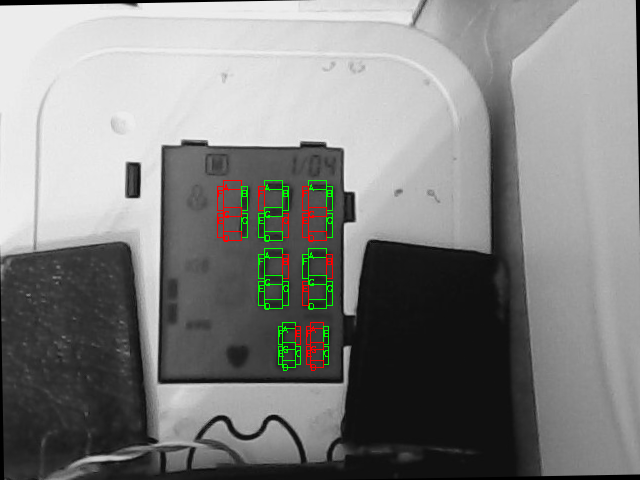
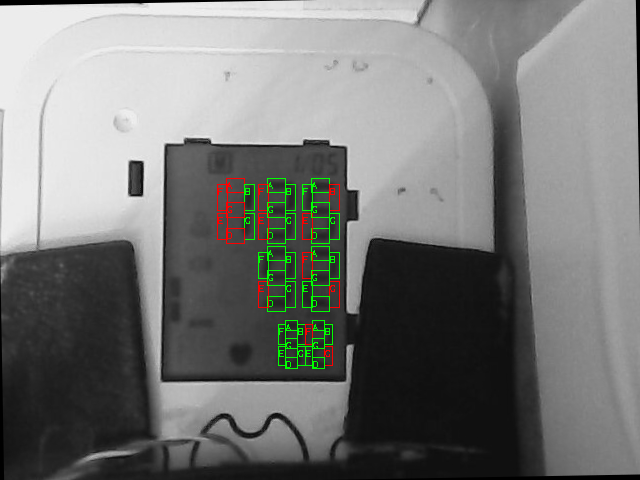
engordando segmentos

diff --git a/measure_recognition/seteseg.py b/measure_recognition/seteseg.py
@@ -1,6 +1,6 @@
 import cv2
 
-img = cv2.imread("2025-11-11-185902.jpg")
+img = cv2.imread("2025-11-11-211256.jpg")
 height, width = img.shape[:2]
 center = (width/2, height/2)
 
@@ -44,16 +44,16 @@ DIGITOS = {
 
 def ler_digito(dig_img, debug_img, x0, y0):
     h, w = dig_img.shape
-    on = lambda seg: cv2.countNonZero(seg) / seg.size > 0.3
+    on = lambda seg: cv2.countNonZero(seg) / seg.size > 0.2
 
     segments = [
-        ((w*0.2, 0, w*0.6, h*0.15)),       # A
-        ((w*0.8, h*0.1, w*0.2, h*0.4)),    # B
-        ((w*0.8, h*0.55, w*0.2, h*0.4)),   # C
-        ((w*0.2, h*0.85, w*0.6, h*0.15)),  # D
-        ((0, h*0.55, w*0.2, h*0.4)),       # E
-        ((0, h*0.1, w*0.2, h*0.4)),        # F
-        ((w*0.2, h*0.45, w*0.6, h*0.15))   # G
+        ((w*0.28 , 0      , w*0.51,  h*0.22)),  # A
+        ((w*0.78  , h*0.1  , w*0.30, h*0.4)),   # B
+        ((w*0.78  , h*0.55 , w*0.30, h*0.4)),   # C
+        ((w*0.28 , h*0.78 , w*0.51, h*0.22)),  # D
+        ((0      , h*0.55 , w*0.30, h*0.4)),   # E
+        ((0      , h*0.1  , w*0.30, h*0.4)),   # F
+        ((w*0.28 , h*0.38 , w*0.51, h*0.22))   # G
     ]
 
     estado = []
@@ -78,9 +78,9 @@ def ler_digito(dig_img, debug_img, x0, y0):
 
 # --- Coordenadas fixas dos dígitos (x, y, w, h) ---
 digitos_coord = {
-    "sistolica": [(217, 180, 30, 60), (258, 180, 30, 60), (302, 180, 30, 60)],
-    "diastolica": [(258, 248, 30, 60), (302, 248, 30, 60)],
-    "pulso": [(278, 322, 22, 45), (306, 322, 22, 45)]
+    "sistolica": [(217, 178, 35, 65), (258, 178, 35, 65), (302, 178, 35, 65)],
+    "diastolica": [(258, 246, 35, 65), (302, 246, 35, 65)],
+    "pulso": [(278, 320, 25, 48), (305, 320, 25, 48)]
 }
 
 # --- Processar cada grupo ---
